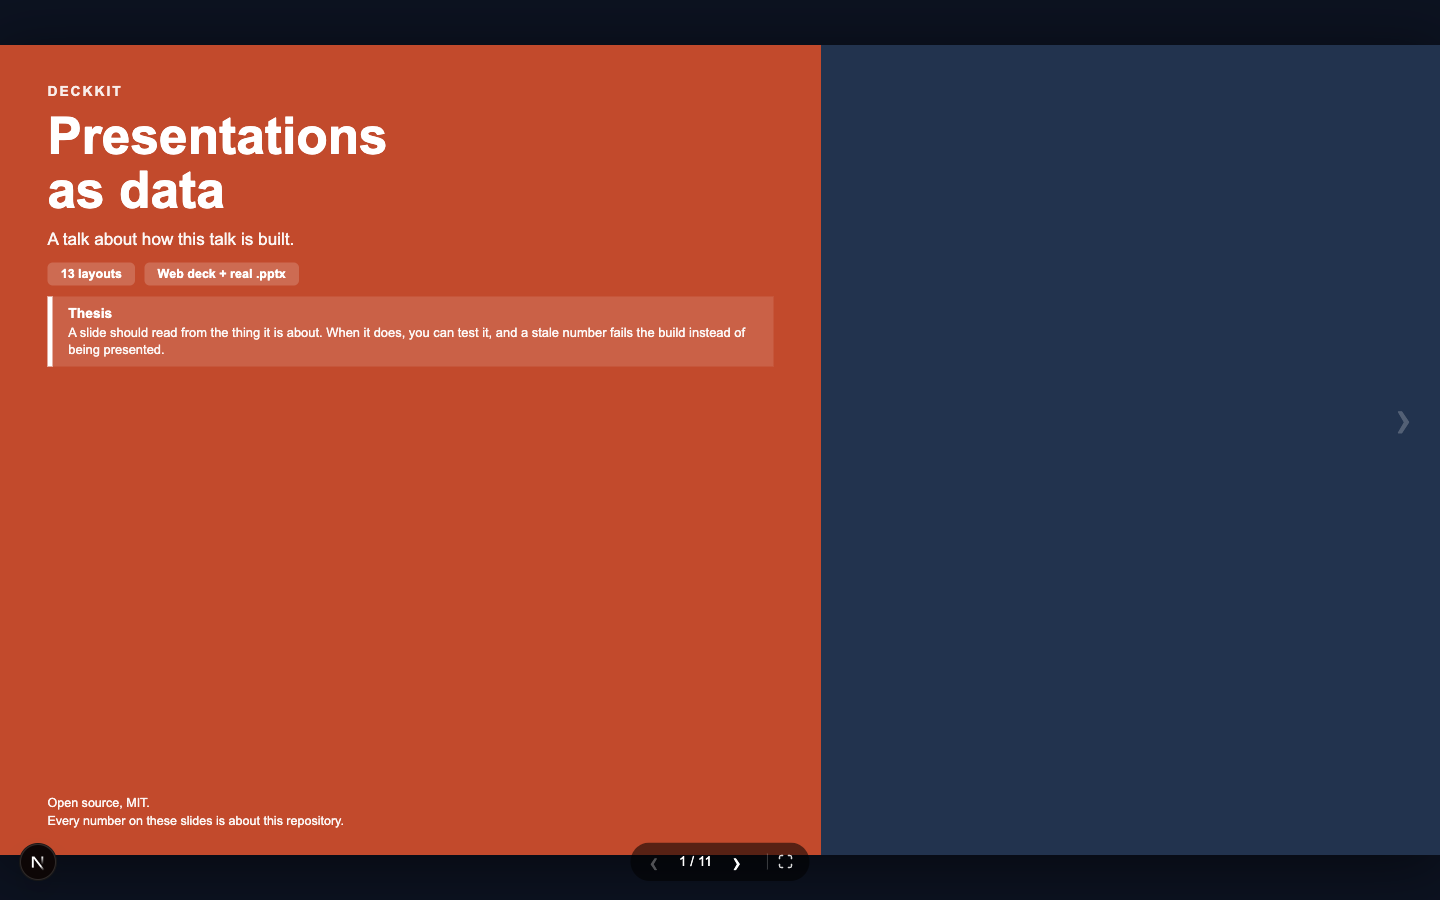
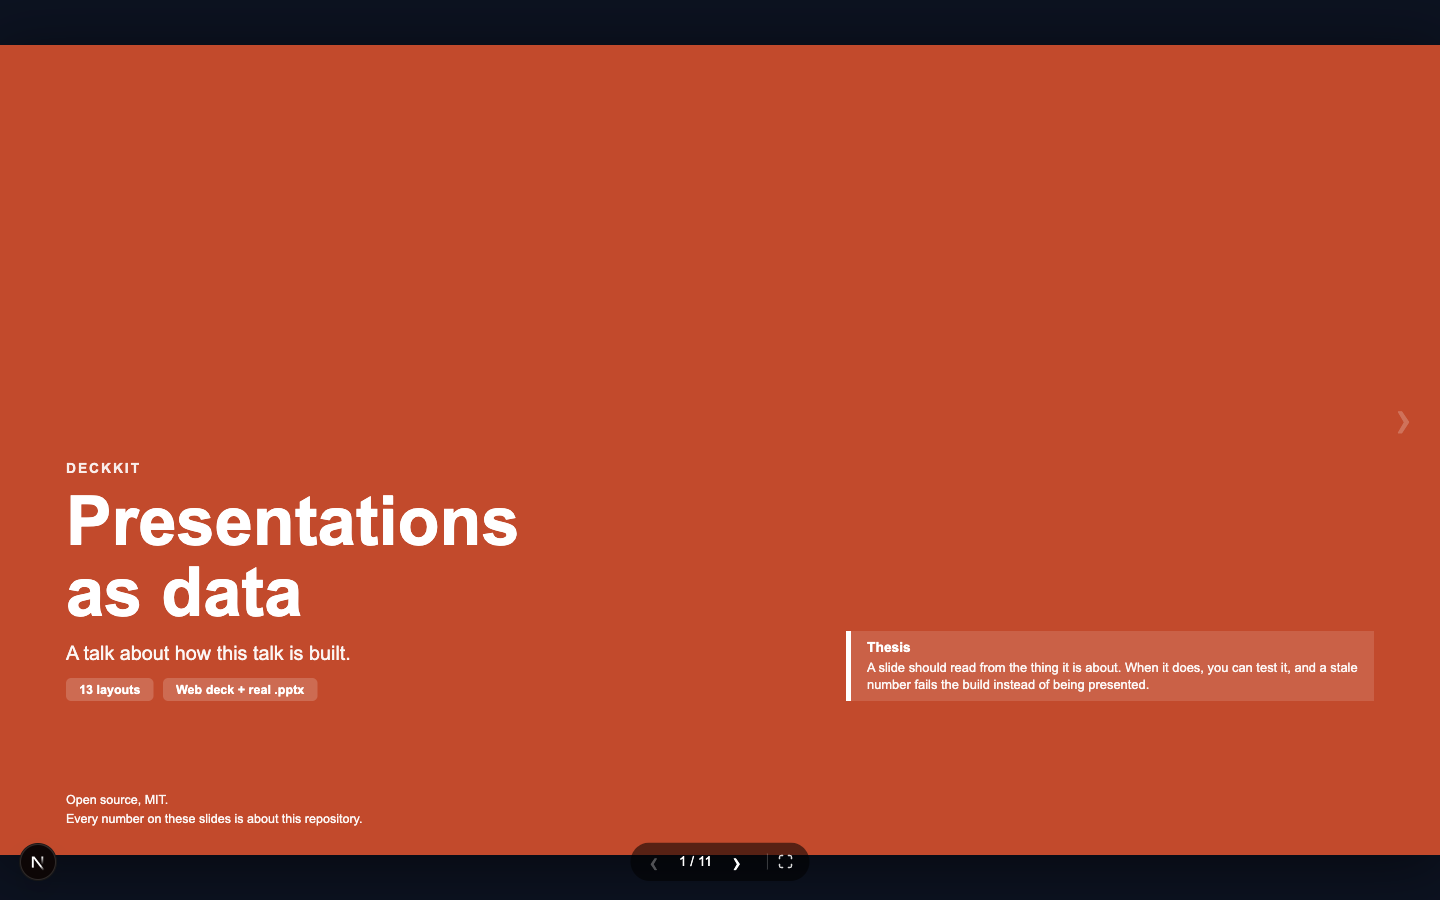
Polish for a public repository
Going public means a stranger's first look is the title slide and the README,
and both had the same problem: a claim that nothing checked, and a layout that
looked unfinished.

- The title and closing slides ship without a photograph, and the no-photo
  state left a 43% band of flat ink where the picture would have gone. With no
  photo the accent panel now takes the whole stage and the composition spreads
  across it, which is a design rather than a hole.
- `npm test` now checks the README's own numbers - the renderer line count and
  the layout list - against the source, not against the deck. Agreeing with a
  stale slide is not evidence. The count moved 899 -> 923 with this change, and
  the existing test caught it, which is the point.
- CI runs test, build and the export on every push, because a deck that renders
  in the browser and throws on the way to .pptx is the failure this exists to
  prevent.
- An icon, so the dev server stops 404ing on favicon.ico, and an engines field.

Claude-Session: https://claude.ai/code/session_01JrM983PtPv9cuT5WcvgA4S

diff --git a/src/deck/slideLayouts.tsx b/src/deck/slideLayouts.tsx
@@ -100,16 +100,21 @@ export function renderBody(s: Slide, assets: DeckAssets = {}) {
           style={assets.titlePhoto ? { backgroundImage: `url(${assets.titlePhoto})` } : undefined}
         >
           <div className="t-panel">
-            <div className="t-eyebrow">{String(s.eyebrow ?? "")}</div>
-            <h1 className="t-title">{String(s.title)}</h1>
-            <p className="t-sub">{String(s.subtitle ?? "")}</p>
-            {chips.length ? (
-              <div className="t-chips">
-                {chips.map((c, i) => (
-                  <span key={i} className="chip">{c.text}</span>
-                ))}
-              </div>
-            ) : null}
+            {/* One wrapper so that with no photo the lead can sit in its own column.
+                `.t-lead { display: contents }` keeps the photo layout stacking exactly
+                as it did before this wrapper existed. */}
+            <div className="t-lead">
+              <div className="t-eyebrow">{String(s.eyebrow ?? "")}</div>
+              <h1 className="t-title">{String(s.title)}</h1>
+              <p className="t-sub">{String(s.subtitle ?? "")}</p>
+              {chips.length ? (
+                <div className="t-chips">
+                  {chips.map((c, i) => (
+                    <span key={i} className="chip">{c.text}</span>
+                  ))}
+                </div>
+              ) : null}
+            </div>
             {s.thesis ? (
               <div className="thesis">
                 <div className="thesis-t">{String(s.thesisTitle ?? "Thesis")}</div>
@@ -361,8 +366,10 @@ export function renderBody(s: Slide, assets: DeckAssets = {}) {
           style={assets.closePhoto ? { backgroundImage: `url(${assets.closePhoto})` } : undefined}
         >
           <div className="c-panel">
-            <h1 className="close-h">{String(s.heading)}</h1>
-            {s.sub ? <p className="close-sub">{String(s.sub)}</p> : null}
+            <div className="t-lead">
+              <h1 className="close-h">{String(s.heading)}</h1>
+              {s.sub ? <p className="close-sub">{String(s.sub)}</p> : null}
+            </div>
             {s.acknowledgements ? (
               <div className="thanks">
                 <div className="thanks-t">{String(s.acknowledgementsTitle ?? "With thanks")}</div>

diff --git a/src/deck/Deck.tsx b/src/deck/Deck.tsx
@@ -240,6 +240,23 @@ export const CSS = `
 .l-title, .l-close { position: absolute; inset: 0; background-size: cover; background-position: center; }
 /* No photo set: fill the space beside the panel rather than leaving bare paper. */
 .l-title.no-photo, .l-close.no-photo { background: ${ACCENT.ink}; }
+/* With a photograph, the panel is a column beside the picture. With none, a 43% band of
+   flat ink is not a design, it is the hole where a photograph was going to be - so the
+   panel takes the whole stage and the content spreads across it instead. */
+.t-lead { display: contents; }
+.l-title.no-photo .t-panel, .l-close.no-photo .c-panel {
+  width: 100%; display: grid; grid-template-columns: 1.15fr .85fr;
+  grid-template-rows: 1fr auto; column-gap: 5cqw; padding: 6cqh 5cqw 4cqh;
+}
+/* The closing slide has no footer row to stand on, so it carries the clearance itself. */
+.l-close.no-photo .c-panel { padding-bottom: 9cqh; }
+.l-title.no-photo .t-lead, .l-close.no-photo .t-lead { display: block; align-self: end; padding-bottom: 7cqh; }
+.l-title.no-photo .thesis, .l-close.no-photo .thanks { align-self: end; margin-top: 0; margin-bottom: 7cqh; }
+.l-title.no-photo .t-foot, .l-close.no-photo .c-logo { grid-column: 1 / -1; margin-top: 4cqh; }
+/* The type can be larger once it owns the stage rather than a 57% column. */
+.l-title.no-photo .t-title { font-size: 5.2cqw; }
+.l-title.no-photo .t-sub { font-size: 1.5cqw; }
+.l-close.no-photo .close-h { font-size: 6cqw; }
 .t-panel { position: absolute; inset: 0 auto 0 0; width: 57%; background: ${ACCENT.red}; color: #fff; padding: 5.5cqh 3.6cqw 3.6cqh; box-sizing: border-box; display: flex; flex-direction: column; }
 .t-eyebrow { font-size: 1.05cqw; font-weight: 700; color: #fff; letter-spacing: .14em; text-transform: uppercase; opacity: .9; }
 .t-title { font-size: 3.9cqw; font-weight: 800; color: #fff; margin: 1.4cqh 0 0; line-height: 1.04; white-space: pre-line; }

diff --git a/README.md b/README.md
@@ -1,5 +1,7 @@
 # DeckKit
 
+[![check](https://github.com/todd866/DeckKit/actions/workflows/check.yml/badge.svg)](https://github.com/todd866/DeckKit/actions/workflows/check.yml)
+
 Presentations as data. You write a JSON file; it renders as a keyboard-driven web deck in
 the browser, and exports to a real `.pptx` — native shapes and text, not screenshots — and
 to PDF. Both outputs read the same file, so they cannot disagree about what the talk says.
@@ -11,7 +13,7 @@ file a supervisor could open, and as a PDF an assessment system would accept. Th
 is not here. The machinery is, with an example deck that explains itself.
 
 ```bash
-npm install && npm run dev          # the deck at localhost:3000
+npm install && npm run dev          # the deck at localhost:3000  (Node 20.9+)
 npm test                            # check every slide against both renderers
 ./export/build.sh                   # figures -> build/example.pptx -> build/example.pdf
 ```
@@ -61,7 +63,9 @@ your slides make claims. Use a slide editor when they make an impression.
 | `public/embed/contrast.html` | the live page the `embed` slide runs |
 | `tests/layouts.test.mjs` | checks every slide against both renderers |
 
-The renderer is 899 lines. It is meant to be read and changed, not configured.
+The renderer is 923 lines. It is meant to be read and changed, not configured. That number
+is checked by `npm test`, here and on the slide that says it, which is the whole argument in
+one line: a claim in prose goes stale as quietly as one on a slide.
 
 ## Writing a deck
 
